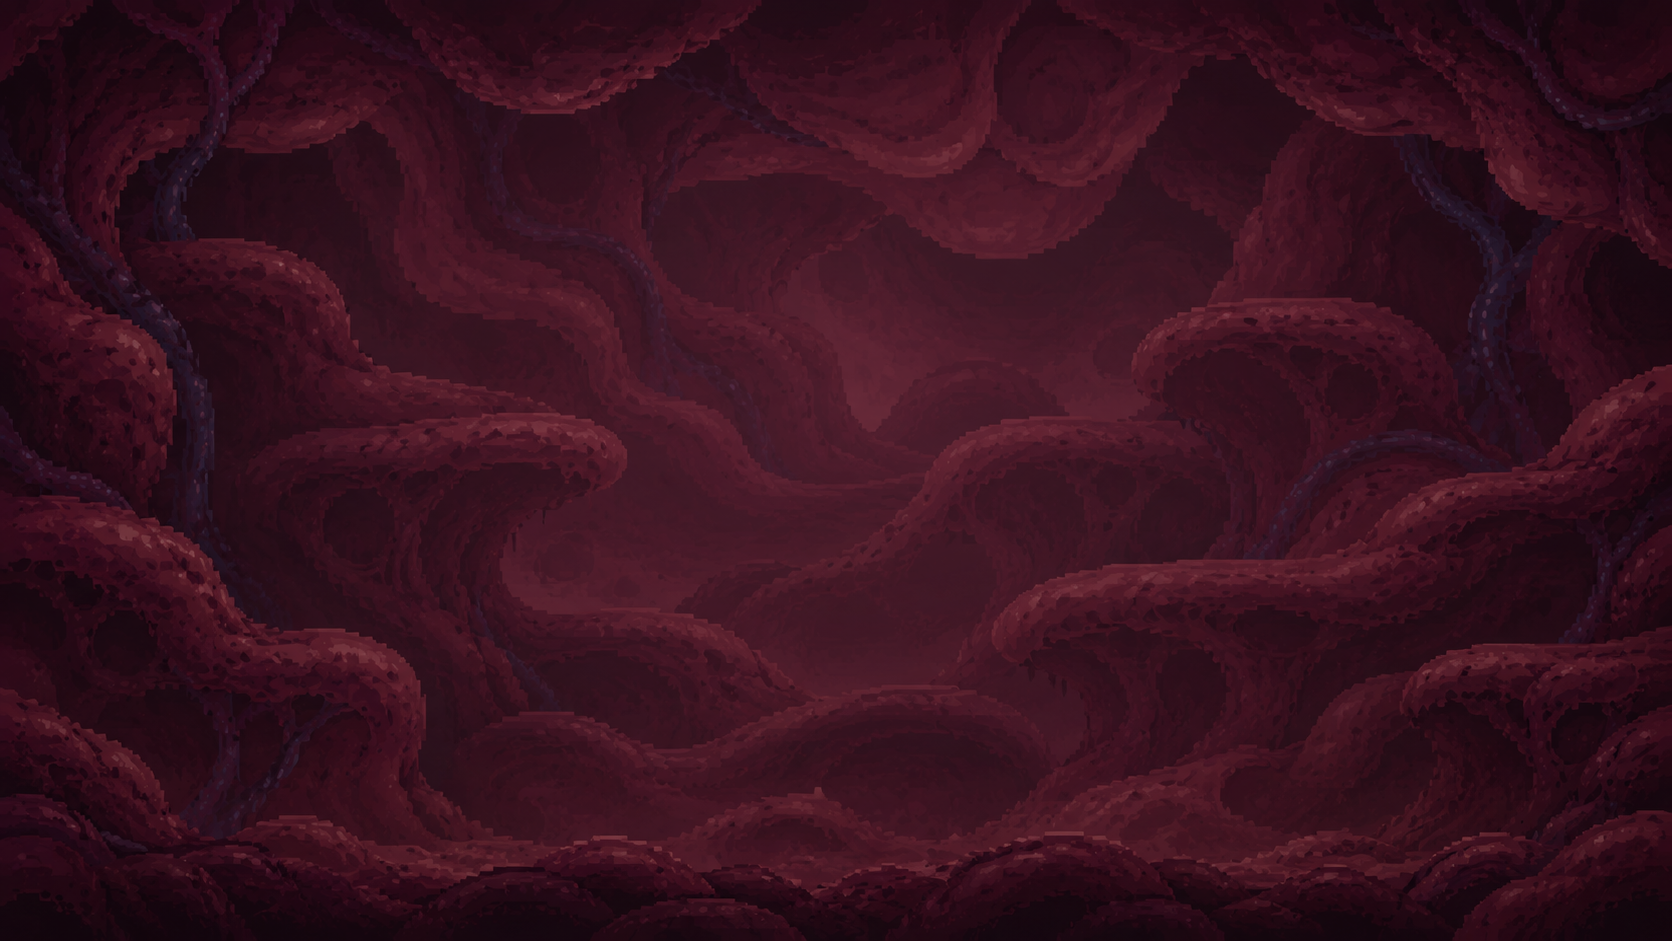
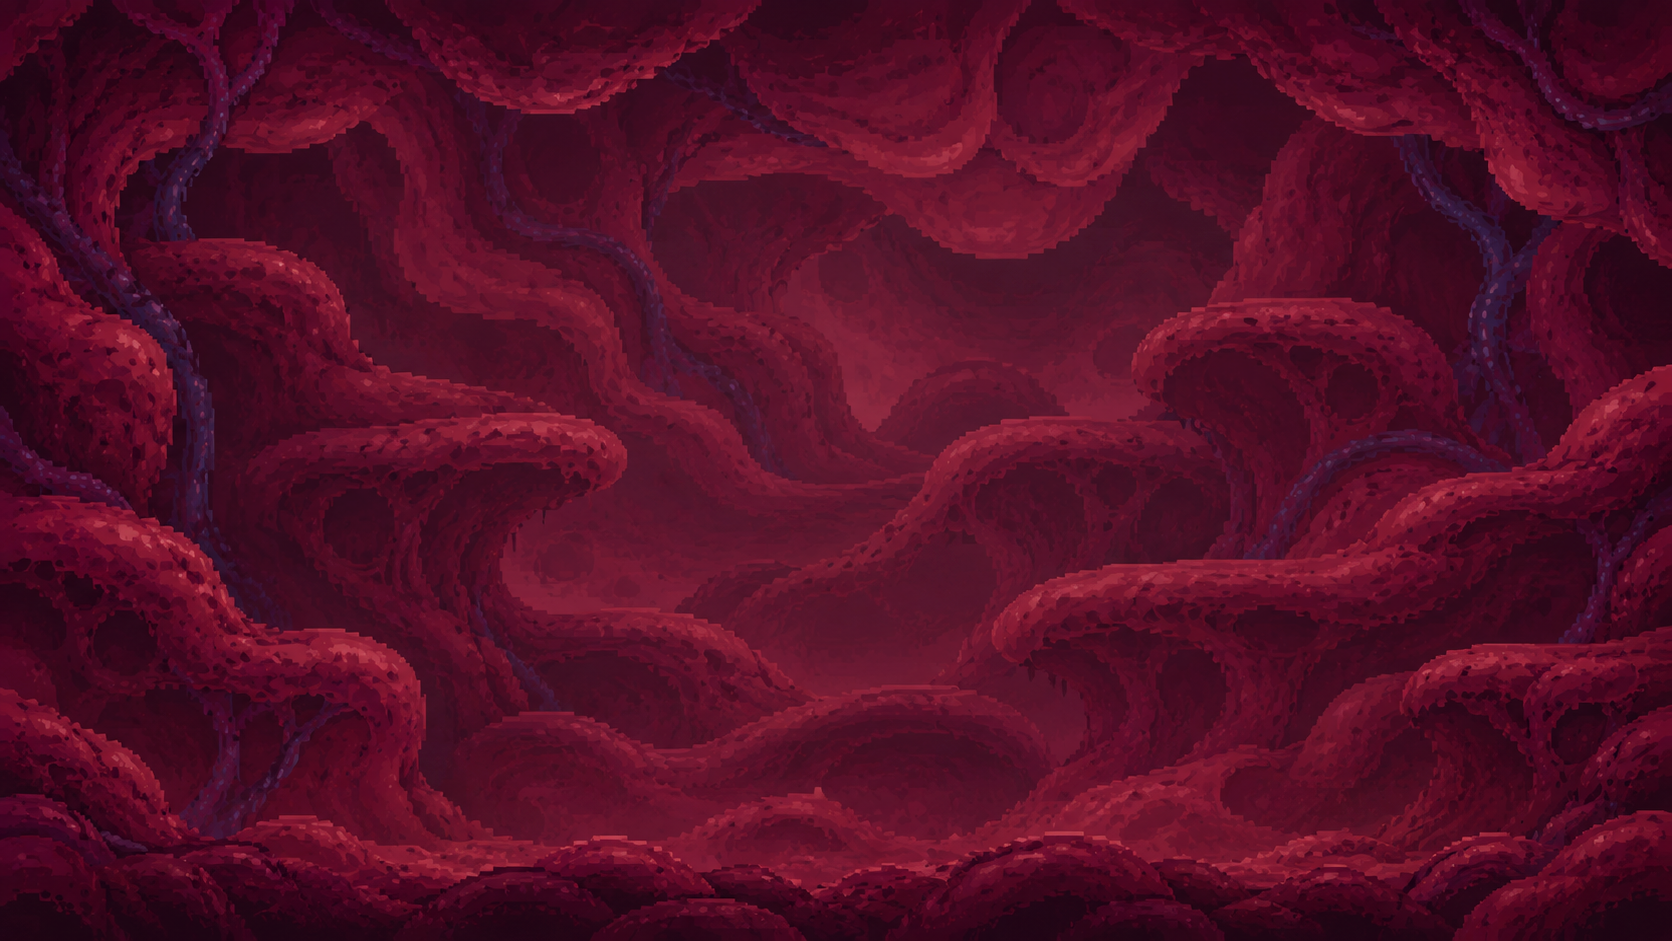
Estómago: comida flotante, enemigos salen de los lagos, fondo más vivo
- FloatingFood: comida que sirve de plataforma y sube con la marea de ácido.
- EnemyBrain: brinca paredes bajas y se destraba si cae en un lago hundido.
- Sin bruma verde ni gotas del techo con fondo de imagen; plataformas de tejido sin
  gotas verdes extra. Fondo y paleta del tejido más claros.

Claude-Session: https://claude.ai/code/session_01So77qf1zGiYdnp4fHwupfP

diff --git a/Assets/_Project/Scripts/Editor/SceneSetup.cs b/Assets/_Project/Scripts/Editor/SceneSetup.cs
@@ -200,9 +200,9 @@ namespace HealingKnight.EditorTools
         /// 'border' = píxeles de las orillas que NO se repiten (izq, abajo, der, arriba), para las puntas de las plataformas.
         /// Se carga una vez por armado (si se reimporta dos veces, la primera referencia se pierde).
         /// </summary>
-        private static Sprite LoadTissue(string file, Vector2 pivot, Vector4 border, bool pixelArt = true)
+        private static Sprite LoadTissue(string file, Vector2 pivot, Vector4 border, bool pixelArt = true, string folder = TissueFolder)
         {
-            string path = $"{TissueFolder}/{file}.png";
+            string path = $"{folder}/{file}.png";
             if (tissueCache.TryGetValue(path, out Sprite cached) && cached != null) return cached;
             var importer = AssetImporter.GetAtPath(path) as TextureImporter;
             if (importer == null) return null;
@@ -329,6 +329,7 @@ namespace HealingKnight.EditorTools
             float endX = startX + length;
 
             environment = new GameObject("Environment").transform;
+            currentLakes.Clear();
             LoadLevelTissue(style.tissue);
             Sprite backdrop = LoadBackdrop(style.backdrop);
             if (backdrop != null)
@@ -540,7 +541,8 @@ namespace HealingKnight.EditorTools
                     break;
             }
 
-            if (style.drip.a > 0f)
+            // Con fondo de imagen no van las gotas del techo ni la bruma: el dibujo ya trae su ambiente.
+            if (style.drip.a > 0f && backdrop == null)
             {
                 // Gotas que escurren de la orilla del piso hacia los huecos y del borde de la pared.
                 for (float x = startX - 5f; x < endX + 10f; x += 1.5f + (float)random.NextDouble() * 2f)
@@ -554,7 +556,7 @@ namespace HealingKnight.EditorTools
             if (style.glow.a > 0f)
             {
                 // Bruma de color abajo y luz al final del nivel (como el arte de referencia).
-                for (float x = startX - 5f; x < endX + 10f; x += 6f)
+                for (float x = startX - 5f; x < endX + 10f && backdrop == null; x += 6f)
                     SetupUtils.SpriteChild(environment, "Bruma", PlaceholderArt.Circle, new Color(style.glow.r, style.glow.g, style.glow.b, 0.08f),
                         new Vector3(x, FloorY + 1.2f, 0f), new Vector2(9f, 3.5f), -145);
                 SetupUtils.SpriteChild(environment, "LuzSalida", PlaceholderArt.Circle, new Color(style.glow.r, style.glow.g, style.glow.b, 0.35f),
@@ -691,7 +693,7 @@ namespace HealingKnight.EditorTools
                     new Vector3(0f, -0.2f, 0f), new Vector2(width + 0.3f, 0.55f), -91);
             }
 
-            if (currentStyle.drip.a > 0f)
+            if (currentStyle.drip.a > 0f && !tissue) // el tejido ya trae sus gotas de moco dibujadas
             {
                 // Plataforma de carne tipo hongo: borde redondeado y gotas colgando.
                 if (!tissue)
@@ -779,6 +781,60 @@ namespace HealingKnight.EditorTools
         }
 
         /// <summary>Lago hundido: piso más bajo (sólido) con ácido hasta casi el borde.</summary>
+        private const string FoodFolder = "Assets/_Project/Art/Comida";
+        /// <summary>Lagos de ácido del nivel actual (para poner comida flotando en ellos).</summary>
+        private readonly List<AcidLake> currentLakes = new List<AcidLake>();
+
+        private AcidLake LakeAt(float x)
+        {
+            foreach (AcidLake lake in currentLakes)
+            {
+                if (lake == null) continue;
+                if (Mathf.Abs(x - lake.transform.position.x) <= lake.Width * 0.5f) return lake;
+            }
+            return null;
+        }
+
+        /// <summary>
+        /// Comida a medio digerir que flota en el ácido (Art/Comida/Comida_&lt;nombre&gt;.png) y sirve de plataforma.
+        /// 'topFraction' = a qué altura del dibujo está la parte que se pisa (0..1 desde abajo).
+        /// Descansa en el piso o el fondo del lago donde está, y sube si sube el ácido (marea).
+        /// </summary>
+        private void Food(string name, float x, float topFraction)
+        {
+            Sprite sprite = LoadTissue($"Comida_{name}", new Vector2(0.5f, 0f), Vector4.zero, true, FoodFolder);
+            if (sprite == null) return;
+            AcidLake lake = LakeAt(x);
+            float restY = lake != null ? lake.transform.position.y : FloorY;
+            Vector2 size = sprite.bounds.size;
+
+            var root = new GameObject($"Comida_{name}");
+            root.transform.SetParent(environment, false);
+            root.transform.position = new Vector3(x, restY, 0f);
+
+            var art = new GameObject("Dibujo");
+            art.transform.SetParent(root.transform, false);
+            var sr = art.AddComponent<SpriteRenderer>();
+            sr.sprite = sprite;
+            sr.sortingOrder = -5; // detrás de los personajes y del ácido (así se ve hundida)
+            sr.color = new Color(0.92f, 0.86f, 0.86f, 1f); // un poco apagada: ya va a medio digerir
+
+            const float thickness = 0.3f;
+            var floor = new GameObject("Piso");
+            floor.transform.SetParent(root.transform, false);
+            floor.transform.localPosition = new Vector3(0f, size.y * topFraction, 0f);
+            floor.layer = PhysicsLayers.Ground;
+            var box = floor.AddComponent<BoxCollider2D>();
+            box.size = new Vector2(size.x * 0.8f, thickness);
+            box.offset = new Vector2(0f, -thickness * 0.5f);
+            box.usedByEffector = true;
+            var effector = floor.AddComponent<PlatformEffector2D>();
+            effector.useOneWay = true;
+            effector.surfaceArc = 160f;
+
+            root.AddComponent<FloatingFood>().Configure(lake, restY, size.y, size.y * topFraction, size.x * 0.8f, art.transform);
+        }
+
         private void Basin(float fromX, float width)
         {
             var go = new GameObject("FondoLago");
@@ -792,7 +848,7 @@ namespace HealingKnight.EditorTools
             else
                 SetupUtils.SpriteChild(go.transform, "Fill", PlaceholderArt.Square, Color.Lerp(currentStyle.floor, Color.black, 0.35f),
                     new Vector3(0f, -4f, 0f), new Vector2(width, 4f), -100);
-            Lake(fromX, fromX + width, BasinDepth - 0.12f, FloorY - BasinDepth);
+            currentLakes.Add(Lake(fromX, fromX + width, BasinDepth - 0.12f, FloorY - BasinDepth));
         }
 
         /// <summary>Hueco lleno de ácido casi hasta el borde. No daña aparte: caer al hueco ya cuesta vida.</summary>
@@ -819,6 +875,7 @@ namespace HealingKnight.EditorTools
             AcidLake lake = Lake(fromX, toX, 0f);
             lake.name = "MareaAcido";
             lake.Configure(toX - fromX, 0f, true, high);
+            currentLakes.Add(lake);
             return lake;
         }
 
@@ -912,6 +969,9 @@ namespace HealingKnight.EditorTools
             // ----- 2) Lago de ácido entre bancos de moco -----
             MucusLayer(22.5f, 68f);
             Platform(35.5f, 2.2f, 3f);
+            // Comida a medio digerir en los lagos: islas para cruzar sin pisar el ácido.
+            Food("Dona", 25.5f, 0.85f);
+            Food("Manzana", 36.6f, 0.72f);
 
             // Easter egg en la plataforma más alta, entre la primera y la segunda arena: el diente con cara.
             // Al tocarlo se desbloquea la Boca (nivel secreto) y te lleva ahí.
@@ -926,16 +986,20 @@ namespace HealingKnight.EditorTools
 
 
             // ----- 3) Marea de ácido (contracciones) -----
-            Tide(68f, 90f, 1.3f);
+            Food("Hamburguesa", 61.25f, 0.97f);
+
+            Tide(68f, 90f, 1.5f);
             Arena("Arena_3_Marea", 72f, 20f,
                 "Contracción del estómago: cuando retumbe, el ácido sube. ¡Súbete a una plataforma! El escudo no te protege.",
                 W(0.6f, E(prefabs.HPylori, data.HPylori, 3)),
                 W(1.0f, E(prefabs.HPylori, data.HPylori, 2), E(prefabs.HPylori, data.HPylori, 2, SpawnSide.Left)));
-            Platform(70.5f, 2.2f, 2.5f);
-            Platform(75f, 2.2f, 3f);
+            // Comida que sube con la marea (súbete encima) y dos pliegues fijos más altos.
+            Food("Dona", 71f, 0.85f);
+            Food("Hamburguesa", 75.5f, 0.97f);
             Platform(79.5f, 3.3f, 3f);
-            Platform(84.5f, 2.2f, 3f);
-            Platform(88f, 2.4f, 2.5f);
+            Food("Manzana", 82.2f, 0.72f);
+            Food("Salchicha", 85.6f, 0.75f);
+            Platform(88.5f, 2.4f, 2.2f);
         }
 
         private void BuildDelgado()

diff --git a/Assets/_Project/Scripts/Gameplay/Hazards/FloatingFood.cs b/Assets/_Project/Scripts/Gameplay/Hazards/FloatingFood.cs
@@ -1,0 +1,92 @@
+using HealingKnight.Gameplay.Player;
+using UnityEngine;
+
+namespace HealingKnight.Gameplay.Hazards
+{
+    /// <summary>
+    /// Comida a medio digerir que FLOTA en el ácido y sirve de plataforma (de un solo sentido).
+    ///  - Si el ácido está bajo (o seco), descansa en el piso ('restY').
+    ///  - Si sube la marea, la comida sube con ella y te lleva encima: es la forma de no quemarte.
+    ///  - Mientras flota se mece un poco (solo el dibujo; el piso donde te paras se queda plano).
+    /// El objeto raíz marca la parte de ABAJO de la comida; el colisionador va a 'topHeight'.
+    /// </summary>
+    public class FloatingFood : MonoBehaviour
+    {
+        [SerializeField] private AcidLake lake;
+        [Tooltip("Altura del fondo de la comida cuando no flota (el piso o el fondo del lago).")]
+        [SerializeField] private float restY;
+        [Tooltip("Alto del dibujo (unidades).")]
+        [SerializeField] private float height = 1.4f;
+        [Tooltip("Dónde está la parte que se pisa, medida desde abajo (unidades).")]
+        [SerializeField] private float topHeight = 1.2f;
+        [SerializeField] private float width = 1.6f;
+        [Tooltip("Qué parte de la comida queda hundida en el ácido al flotar (0.35 = un tercio).")]
+        [Range(0f, 0.9f)]
+        [SerializeField] private float submerged = 0.35f;
+        [Tooltip("Qué tan rápido sigue al ácido (más chico = más pesada, se queda atrás).")]
+        [SerializeField] private float followTime = 0.25f;
+        [SerializeField] private Transform visual;
+
+        private float bottom, velocity, seed;
+        private Vector3 visualBase;
+
+        public void Configure(AcidLake acid, float rest, float foodHeight, float top, float foodWidth, Transform art)
+        {
+            lake = acid;
+            restY = rest;
+            height = foodHeight;
+            topHeight = top;
+            width = foodWidth;
+            visual = art;
+        }
+
+        private void Start()
+        {
+            bottom = transform.position.y;
+            seed = transform.position.x * 1.7f;
+            if (visual != null) visualBase = visual.localPosition;
+        }
+
+        private void FixedUpdate()
+        {
+            float target = restY;
+            if (lake != null && lake.Level > 0.05f) target = Mathf.Max(restY, lake.SurfaceY - height * submerged);
+
+            float before = bottom;
+            bottom = Mathf.SmoothDamp(bottom, target, ref velocity, followTime, Mathf.Infinity, Time.fixedDeltaTime);
+            float delta = bottom - before;
+            Vector3 p = transform.position;
+            transform.position = new Vector3(p.x, bottom, p.z);
+
+            // Lleva al jugador si está parado encima (sube y baja con la comida sin rebotar).
+            PlayerController player = PlayerController.Current;
+            if (player == null || Mathf.Abs(delta) < 0.0001f) return;
+            Vector2 feet = player.Position;
+            float top = before + topHeight;
+            bool onTop = Mathf.Abs(feet.x - p.x) <= width * 0.5f + 0.1f && Mathf.Abs(feet.y - top) < 0.15f
+                         && player.Motor.Velocity.y <= 0.5f;
+            if (onTop)
+            {
+                Rigidbody2D body = player.Motor.Body;
+                body.position += new Vector2(0f, delta);
+            }
+        }
+
+        private void Update()
+        {
+            if (visual == null) return;
+            bool floating = lake != null && lake.Level > 0.05f && bottom > restY + 0.02f;
+            float k = floating ? 1f : 0f;
+            float t = Time.time;
+            visual.localPosition = visualBase + new Vector3(0f, Mathf.Sin(t * 2.1f + seed) * 0.03f * k, 0f);
+            visual.localRotation = Quaternion.Euler(0f, 0f, Mathf.Sin(t * 1.3f + seed) * 3.5f * k);
+        }
+
+        private void OnDrawGizmos()
+        {
+            Gizmos.color = new Color(1f, 0.8f, 0.3f, 0.8f);
+            Vector3 p = transform.position;
+            Gizmos.DrawLine(p + new Vector3(-width * 0.5f, topHeight, 0f), p + new Vector3(width * 0.5f, topHeight, 0f));
+        }
+    }
+}

diff --git a/Assets/_Project/Scripts/Gameplay/Enemies/EnemyBrain.cs b/Assets/_Project/Scripts/Gameplay/Enemies/EnemyBrain.cs
@@ -183,6 +183,8 @@ namespace HealingKnight.Gameplay.Enemies
                 return;
             }
 
+            if (playerAvailable && motor != null && !IsFlying && (state == State.Approach || state == State.Idle)) Unstick(player, dt);
+
             switch (state)
             {
                 case State.Idle:
@@ -334,6 +336,44 @@ namespace HealingKnight.Gameplay.Enemies
             return Physics2D.Raycast(origin, Vector2.down, 1.0f, groundMask).collider != null;
         }
 
+        /// <summary>¿Hay una pared (orilla de un lago hundido, un escalón) pegada a los pies en esa dirección?</summary>
+        private bool WallAhead(int dir)
+        {
+            Bounds b = motor.Collider.bounds;
+            Vector2 origin = new Vector2(b.center.x, b.min.y + 0.15f);
+            RaycastHit2D hit = Physics2D.Raycast(origin, new Vector2(dir, 0f), b.extents.x + 0.45f, groundMask);
+            return hit.collider != null && Mathf.Abs(hit.normal.x) > 0.5f;
+        }
+
+        private float stuckTimer, stuckAnchorX;
+
+        /// <summary>
+        /// Si lleva un rato sin avanzar junto a una pared baja (por ejemplo, cayó a un lago de ácido hundido),
+        /// brinca hacia el jugador para salir. Los que se quedan quietos a propósito, lejos de paredes, no brincan.
+        /// </summary>
+        private void Unstick(PlayerController player, float dt)
+        {
+            if (!Grounded || Mathf.Abs(Position.x - stuckAnchorX) > 0.35f)
+            {
+                stuckTimer = 0f;
+                stuckAnchorX = Position.x;
+                return;
+            }
+            stuckTimer += dt;
+            if (stuckTimer < 0.8f || jumpCooldown > 0f) return;
+
+            int dir = player.Position.x >= Position.x ? 1 : -1;
+            if (!WallAhead(dir))
+            {
+                if (!WallAhead(-dir)) { stuckTimer = 0f; return; }
+                dir = -dir; // la pared está del otro lado: sale por ahí
+            }
+            motor.Jump(1.5f, 0.34f);
+            motor.SetHorizontalVelocity(dir * Mathf.Max(3f, data.moveSpeed));
+            jumpCooldown = 0.8f;
+            stuckTimer = 0f;
+        }
+
         /// <summary>Si se deja caer por esa orilla, ¿cae en piso (y no en un hueco)?</summary>
         private bool SafeDrop(int dir)
         {
@@ -375,6 +415,13 @@ namespace HealingKnight.Gameplay.Enemies
                         vx = GroundAhead(-dir) ? -dir * speed * 0.45f : 0f;
                     }
                 }
+            }
+
+            // Pared baja enfrente (orilla de un lago de ácido): la brinca.
+            if (vx != 0f && Grounded && jumpCooldown <= 0f && WallAhead(vx > 0f ? 1 : -1))
+            {
+                motor.Jump(1.4f, 0.32f);
+                jumpCooldown = 0.6f;
             }
 
             // Saltar para subir a la plataforma donde estás.

diff --git a/Tools/Art/generar_tejido.py b/Tools/Art/generar_tejido.py
@@ -16,11 +16,11 @@ SALIDA = os.path.join(AQUI, "..", "..", "Assets", "_Project", "Art", "Tejidos")
 # Paleta: del más oscuro al más claro. Mismo tono que el fondo, un poco más claro y saturado para resaltar.
 PALETAS = {
     "Estomago": {
-        "contorno": (28, 5, 13),
-        "rampa": [(52, 11, 24), (74, 18, 33), (98, 26, 43), (124, 36, 54), (152, 50, 66), (184, 72, 84)],
-        "brillo": (232, 150, 156),
-        "moco": (214, 112, 122),
-        "relleno": [(34, 7, 17), (44, 10, 21), (55, 13, 26)],
+        "contorno": (32, 6, 15),
+        "rampa": [(62, 13, 28), (88, 21, 38), (116, 30, 50), (146, 42, 63), (178, 58, 77), (212, 84, 97)],
+        "brillo": (246, 172, 172),
+        "moco": (234, 132, 138),
+        "relleno": [(40, 8, 20), (53, 12, 26), (66, 16, 32)],
     }
 }
 

diff --git a/Assets/_Project/Scripts/Gameplay/Hazards/AcidLake.cs b/Assets/_Project/Scripts/Gameplay/Hazards/AcidLake.cs
@@ -78,6 +78,9 @@ namespace HealingKnight.Gameplay.Hazards
         private static Sprite square, circle;
 
         public float SurfaceY => transform.position.y + level;
+        /// <summary>Altura del ácido sobre el fondo del lago (0 = seco).</summary>
+        public float Level => level;
+        public float Width => width;
         public bool IsHigh => tide && (phase == Phase.Rising || phase == Phase.Holding);
 
         /// <summary>Daño por tick (0 = solo se ve; por ejemplo en un hueco, donde la caída ya cuesta vida).</summary>

diff --git a/LEEME.md b/LEEME.md
@@ -66,6 +66,17 @@ La pierna de atrás usa el mismo dibujo que la de enfrente, un poco inclinada ha
 
 **Encogerse:** abajo ya no aplasta al caballero; lo hace más pequeño de forma pareja (brazo, escudo y disparo incluidos) y baja su colisionador. El tamaño y la velocidad del cambio están en el PlayerConfig (`crouchHeightFactor`, `shrinkSpeed`).
 
+## Comida flotante (Estómago)
+
+En los lagos y en la marea hay comida a medio digerir (dona, manzana, salchicha, hamburguesa) que sirve de
+plataforma: en los lagos son islas para cruzar sin pisar el ácido, y en la marea **suben con el ácido** y te llevan
+encima. Los PNG están en `Assets/_Project/Art/Comida/` (`Comida_<Nombre>.png`, fondo transparente, pixel art a
+64 píxeles por unidad). En `SceneSetup`: `Food("Dona", x, alturaDelPiso)` donde la altura es la fracción del dibujo
+(0 = abajo, 1 = arriba) en la que se pisa. Si la x cae dentro de un lago o una marea, flota en él.
+
+Para agregar otra comida: dibuja o genera el PNG con fondo transparente (que no sea el cuadriculado pintado),
+guárdalo en esa carpeta y agrega una línea `Food(...)`.
+
 ## Piso y plataformas de tejido (pixel art)
 
 En el Estómago el piso y las plataformas ya no son bloques de color: son pliegues de tejido en pixel art con la
